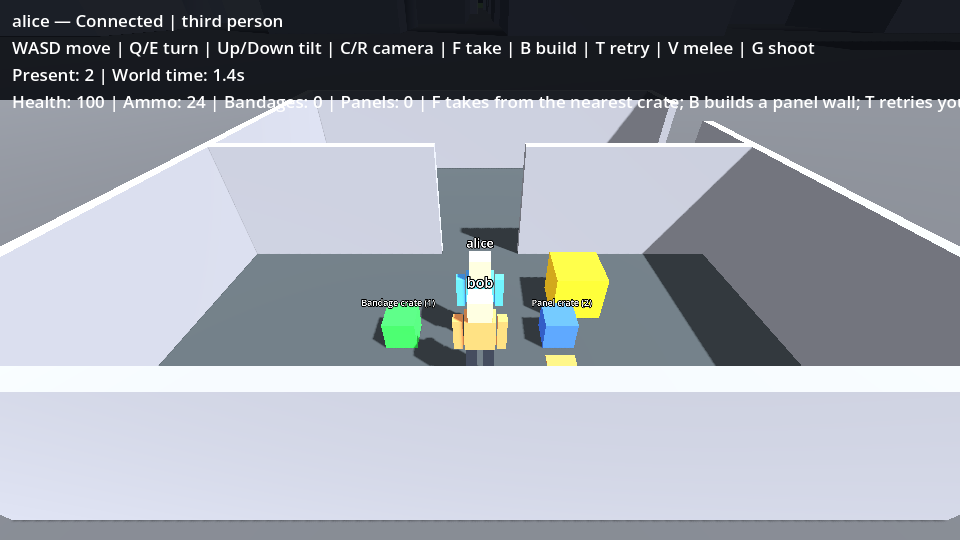
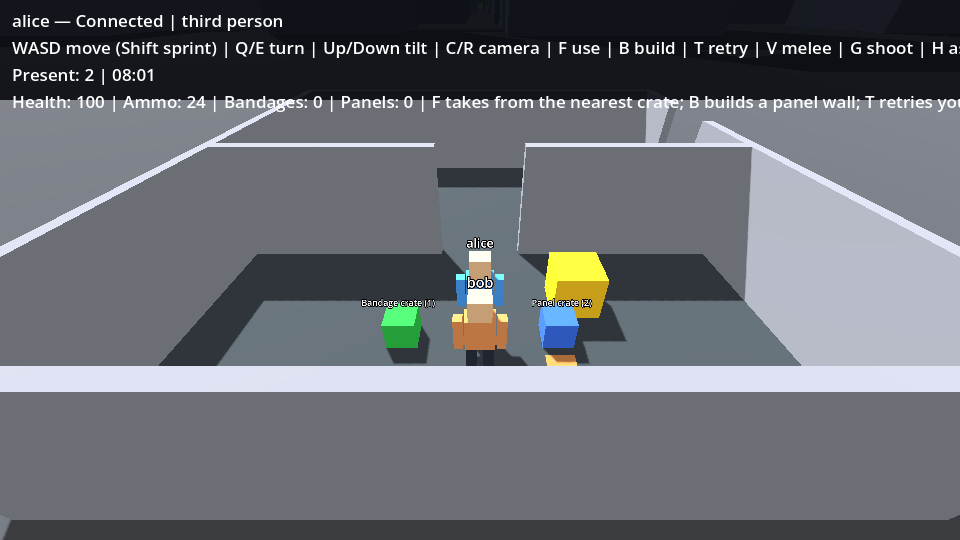
Third-person camera collision against walls and generated buildings

diff --git a/src/QuestSim.Game/RoomView.cs b/src/QuestSim.Game/RoomView.cs
@@ -107,6 +107,25 @@ public partial class RoomView : Node3D
         return node;
     }
 
+    // Pull the third-person camera in front of the first wall or building between the eye and the camera.
+    private float CameraDistance(WorldSnapshot state, Vector3 eye, Vector3 direction, float wanted)
+    {
+        for (float t = .5f; t <= wanted; t += .25f)
+        {
+            var p = eye + direction * t;
+            bool blocked = state.Blocks.Any(b => Mathf.Abs(p.X - (float)b.X) < b.Width / 2 && Mathf.Abs(p.Z - (float)b.Z) < b.Depth / 2 && p.Y < b.Height);
+            if (!blocked && city is not null)
+            {
+                int cx = (int)Mathf.Floor(p.X / CityGen.ChunkSize), cz = (int)Mathf.Floor(p.Z / CityGen.ChunkSize);
+                for (int dx = -1; dx <= 1 && !blocked; dx++)
+                    for (int dz = -1; dz <= 1 && !blocked; dz++)
+                        blocked = city.Chunk(cx + dx, cz + dz).Any(b => Mathf.Abs(p.X - b.X) < b.Width / 2f && Mathf.Abs(p.Z - b.Z) < b.Depth / 2f && p.Y < b.Height);
+            }
+            if (blocked) return Mathf.Max(.3f, t - .3f);
+        }
+        return wanted;
+    }
+
     // World ticks are 20 per real second; at 48:1 each tick is 2.4 game seconds.
     private void ApplyTimeOfDay(long tick)
     {
@@ -209,7 +228,8 @@ public partial class RoomView : Node3D
             if (firstPerson) { camera.Position = eye; camera.Rotation = new Vector3(.65f - elevation, Yaw, 0); }
             else
             {
-                camera.Position = eye + new Vector3(Mathf.Sin(Yaw) * 6 * Mathf.Cos(elevation), 6 * Mathf.Sin(elevation), Mathf.Cos(Yaw) * 6 * Mathf.Cos(elevation));
+                var offset = new Vector3(Mathf.Sin(Yaw) * Mathf.Cos(elevation), Mathf.Sin(elevation), Mathf.Cos(Yaw) * Mathf.Cos(elevation));
+                camera.Position = eye + offset * CameraDistance(state, eye, offset, 6);
                 camera.LookAt(eye);
             }
         }

diff --git a/questsim_planning_kit/STATE.md b/questsim_planning_kit/STATE.md
@@ -34,7 +34,7 @@ E1 population checks 12; GitHub Actions green on ubuntu and windows.
 
 Not done / limits: F1 locality (deferred: 10⁶ fits the CPU), F6 binary snapshots (JSON with
 interest management only), Godot exports and Windows *game* runs (only domain checks run on
-Windows), LAN/WAN and 2–8 player load, camera collision, item instances/rarity, code mods. verify_item_desktop/verify_shared_desktop/
+Windows), LAN/WAN (8-player loopback load done), item instances/rarity, code mods. verify_item_desktop/verify_shared_desktop/
 verify_terminal_shutdown (real desktop) not rerun.
 
 Next action: director reviews NIGHTLY_2026-10-26.md decisions, plays the nightly build, and

diff --git a/questsim_planning_kit/NIGHTLY_2026-10-26.md b/questsim_planning_kit/NIGHTLY_2026-10-26.md
@@ -165,3 +165,6 @@ Each entry gives what the agent chose for now; all are easy to change.
 - Day/night at 48:1 (world starts 08:00): humans stay near home 22:00–06:00 and don't set
   out on roads (mean distance from home 199 m by day → 40 m at night); client sun, sky and
   ambient follow the game clock; HUD shows the time. 112 domain checks.
+- Playtest aids: Shift sprint (double speed; intents longer than 1.5 count as sprint), the
+  server logs the nearest Hollow Choir settlements, a playtest guide above, and third-person
+  camera collision against walls and buildings. 113 domain checks; suites green.
